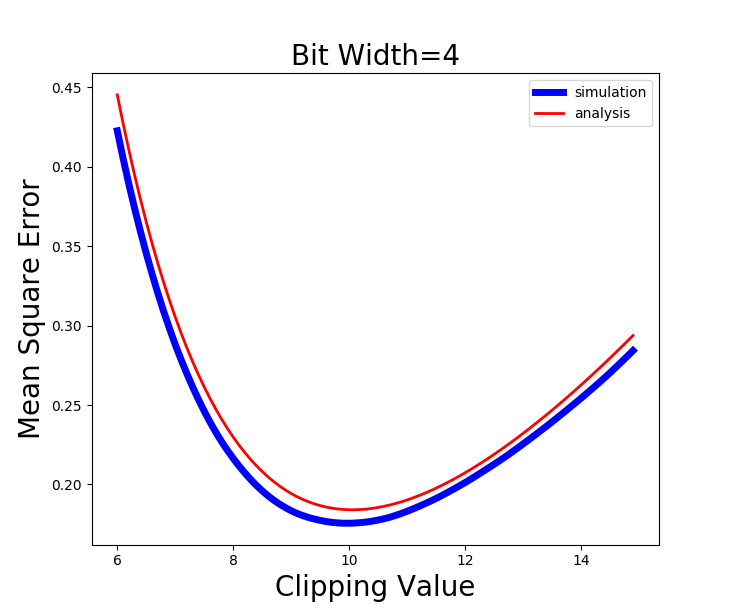
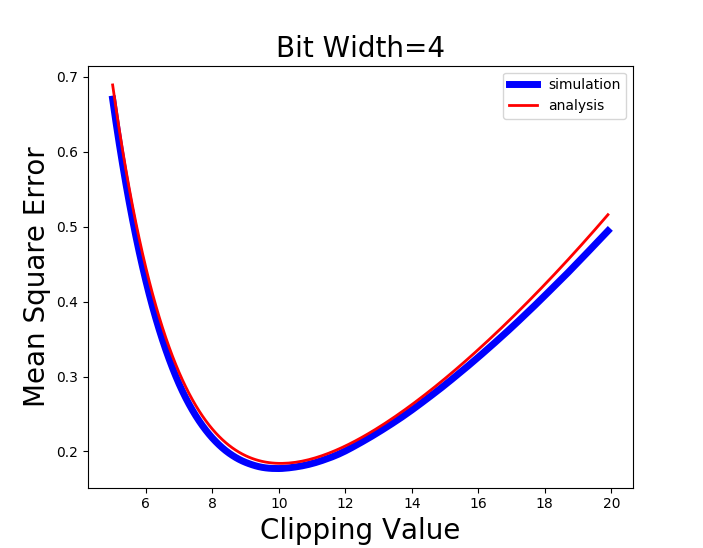
update aciq mse fig

diff --git a/mse_analysis.py b/mse_analysis.py
@@ -60,7 +60,7 @@ def LaplacianClippingSimulation(Alpha, b, bitWidth):
 
 
 if __name__ == "__main__":
-    Alpha = np.arange(6, 15, 0.1)
+    Alpha = np.arange(5, 20, 0.1)
 
     #Experiment parameters
     bitWidth = 4
